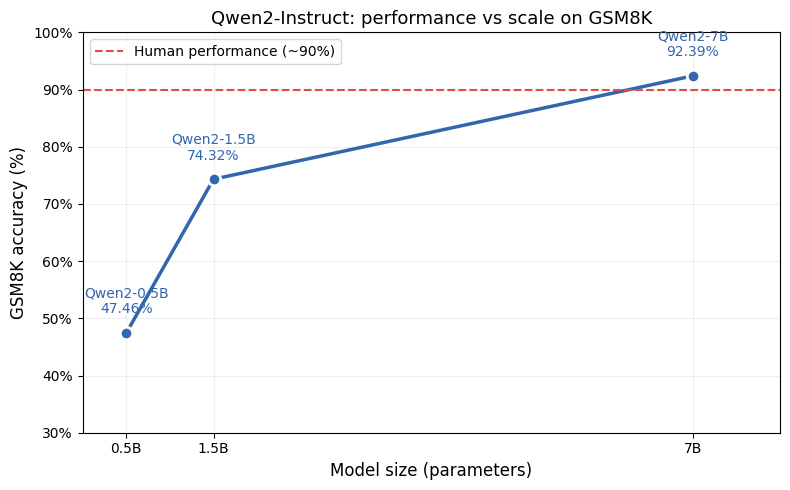
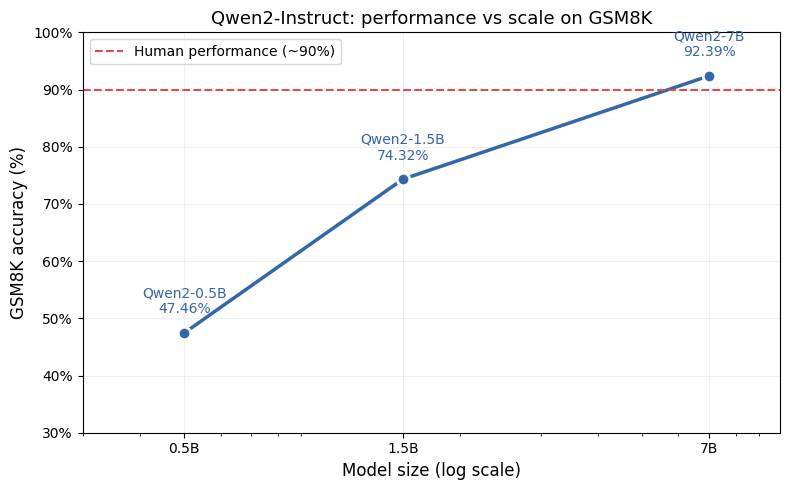
fix img

diff --git a/README.md b/README.md
@@ -207,35 +207,68 @@ Even though Qwen-7B was trained on 2 GPUs, memory was still a bottleneck, hence 
 
 ![Performance vs Scale](images/task31.png)
 
-All three models show clear improvement after 1000 steps of GRPO training:
-
-
- going from 0.5B to 1.5B (3x parameters) gives +27% accuracy, while 1.5B to 7B (~5x parameters) gives another +18%. The 7B model surpasses the human performance baseline (~90%) on GSM8K.
-
 #### Plot 2: Accuracy Over Training Steps
 
 ![Accuracy Over Training Steps](images/task32.png)
 
 ---
 
-### Findings
+### 1. Log-linear scaling with model size
+Accuracy scales log-linearly with 
+model parameters. Plotting final accuracy against model size on a log scale reveals 
+a near straight line (0.5B → 47%, 1.5B → 74%, 7B → 92%).
 
-**Larger models learn faster.** The 7B model starts at 64% accuracy at step 0 (strong
-base model capability) and plateaus quickly around step 200. The 0.5B model starts near 0%
-and takes ~300 steps just to get meaningful signal.
+### 2. Capacity ceilings are model-size dependent
+All three models follow an S-curve during training — slow initial phase, rapid 
+learning, then plateau. Critically, the plateau level is determined by model size 
+not training duration:
 
-**Larger models plateau higher.** The 0.5B model appears to plateau around 47-50%
-suggesting it has reached the limit of what GRPO can extract at that scale for this
-task. The 1.5B model plateaus around 74-76%. The 7B model keeps a slight upward trend
-suggesting it could improve further with more steps.
+- 0.5B plateaus at ~50% around step 700 — more steps will not help
+- 1.5B plateaus at ~74% and shows signs of continued improvement
+- 7B reaches ~92% and continues a slight upward trend at step 1000
 
+This is a direct prediction of scaling laws — the capacity ceiling can only be 
+raised by increasing model size, not by training longer.
 
-**Trade-offs observed:**
-- The 7B model requires 2x H100s and takes ~4x longer per iteration than 0.5B
-- For the best of both worlds, 1.5B offers the best accuracy-to-compute ratio
-- The 0.5B model is the most data efficient in terms of cost per training step
-  but hits a hard capability ceiling that more training cannot overcome
+### 3. The exploration bottleneck in RL
+A key difference from supervised scaling laws is the **exploration bottleneck** 
+unique to RL training. GRPO only produces a learning signal when the model 
+occasionally generates a correct answer — if it never does, all advantages are 
+zero and no gradient flows:
 
+$$\text{reward\_std} \approx 0 \implies \hat{A}_i \approx 0 \implies \nabla_\theta \mathcal{L} \approx 0$$
+
+This explains why the 0.5B model shows almost no improvement for the first 200 
+steps — it needs to stumble onto correct answers before GRPO can amplify them. 
+The 7B model starts at 64% accuracy and learns immediately because it already 
+generates correct answers frequently enough to get consistent reward signal.
+
+This suggests a **minimum capability threshold** for effective RL training, 
+consistent with findings from DeepSeek-R1 that RL reasoning training is most 
+effective above ~1B parameters.
+
+### 4. Larger models are more RL-efficient
+Larger models benefit disproportionately from RL fine-tuning:
+
+| Model | Baseline (step 0) | Final (step 1000) | Gain |
+|---|---|---|---|
+| 0.5B | ~1% | ~47% | +46% |
+| 1.5B | ~29% | ~74% | +45% |
+| 7B | ~64% | ~92% | +28% |
+
+While absolute gains are similar for 0.5B and 1.5B, the 7B model achieves a much 
+higher final accuracy from a much stronger starting point. In relative terms, 
+smaller models see larger percentage improvements but are fundamentally limited 
+by their capacity ceiling.
+
+### Summary
+The key takeaway across all observations is that **model size is the dominant 
+factor** — it determines the capacity ceiling, the strength of the initial reward 
+signal, and ultimately the peak accuracy achievable. Training duration and RL 
+hyperparameters are secondary levers that help the model approach its ceiling 
+faster but cannot raise it. For tasks requiring strong reasoning, investing in 
+a larger base model yields far greater returns than extended RL training on a 
+smaller one.
 
 # Task 4: RL vs SFT Efficiency
 
